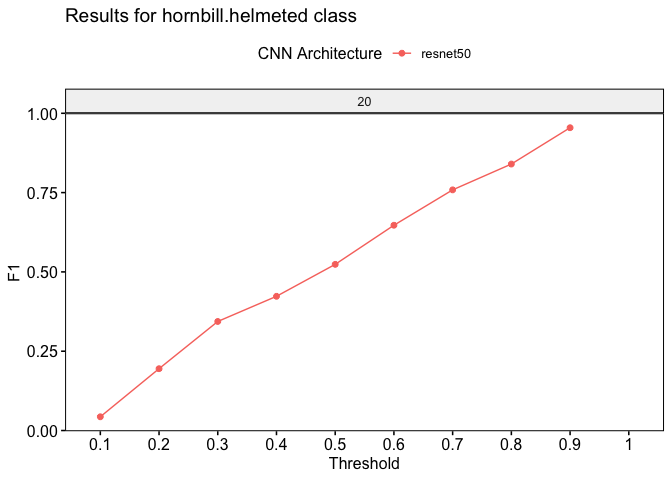
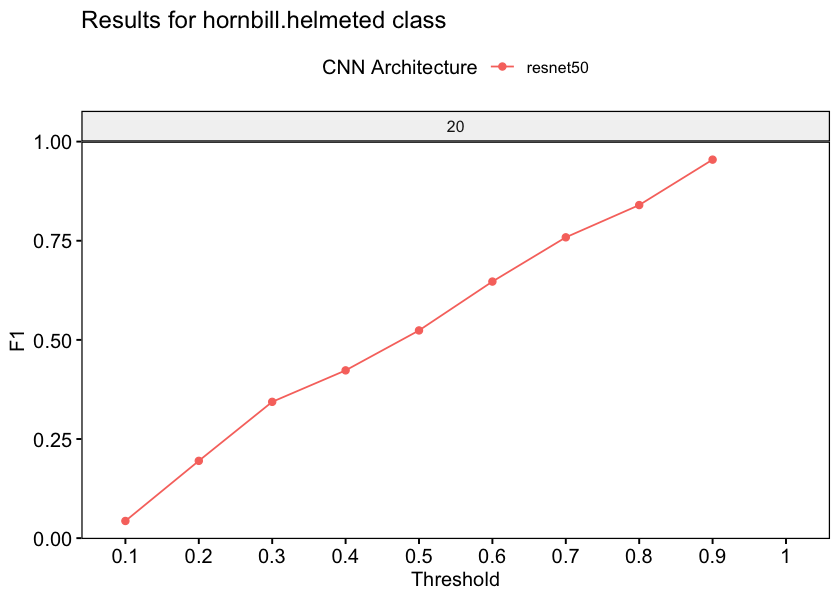
Update README format.

diff --git a/README.md b/README.md
@@ -91,7 +91,7 @@ gibbonNetR::spectrogram_images(
 
 <div class="figure">
 
-<img src="README_files/spectro.png" alt="Figure 1. Spectrograms of training clips for CNNs" width="1995" />
+<img src="README_files/spectro.png" alt="Figure 1. Spectrograms of training clips for CNNs" width="400px" />
 <p class="caption">
 Figure 1. Spectrograms of training clips for CNNs
 </p>
@@ -149,17 +149,17 @@ PerformanceOutput <- gibbonNetR::get_best_performance(performancetables.dir=perf
 PerformanceOutput$f1_plot
 ```
 
-![](README_files/figure-gfm/unnamed-chunk-8-1.png)<!-- -->
+<img src="README_files/figure-gfm/unnamed-chunk-8-1.png" width="400px" />
 
 ``` r
 PerformanceOutput$best_f1$F1
+#> [1] 0.7062107
 ```
-
-    ## [1] 0.7062107
 
 ## Specify for the ‘hornbill.helmeted’ class
 
 ``` r
+
 # Evaluate model performance
 performancetables.dir <- "model_output/_danummulticlassexample_multi_unfrozen_TRUE_/performance_tables_multi"
 
@@ -174,19 +174,19 @@ PerformanceOutput <- gibbonNetR::get_best_performance(performancetables.dir=perf
 PerformanceOutput$f1_plot
 ```
 
-![](README_files/figure-gfm/unnamed-chunk-10-1.png)<!-- -->
+<img src="README_files/figure-gfm/unnamed-chunk-10-1.png" width="400px" />
 
 ``` r
 PerformanceOutput$best_f1$F1
+#> [1] 0.9545455
 ```
-
-    ## [1] 0.9545455
 
 # Use the pre-trained model to extract embeddings and use unsupervised clustering to identify signals
 
 ## Extract embeddings
 
 ``` r
+
 ModelPath <- "model_output/_danummulticlassexample_multi_unfrozen_TRUE_/_danummulticlassexample_20_resnet50_model.pt"
 result <- extract_embeddings(test_input="data/examples/test/",
                                       model_path=ModelPath,
@@ -199,25 +199,20 @@ result <- extract_embeddings(test_input="data/examples/test/",
 result$EmbeddingsCombined
 ```
 
-![](README_files/figure-gfm/unnamed-chunk-12-1.png)<!-- -->
+<img src="README_files/figure-gfm/unnamed-chunk-12-1.png" width="400px" />
 
 ### We can output the NMI results, and the confusion matrix results when we use ‘hdbscan’ to match the target class to the cluster with the largest number of observations
 
 ``` r
 result$NMI
-```
-
-    ## [1] 0.7351531
-
-``` r
+#> [1] 0.7505927
 result$ConfusionMatrix
+#>          Sensitivity          Specificity       Pos Pred Value 
+#>            0.9112426            0.9875721            0.9428571 
+#>       Neg Pred Value            Precision               Recall 
+#>            0.9801762            0.9428571            0.9112426 
+#>                   F1           Prevalence       Detection Rate 
+#>            0.9267803            0.1836957            0.1673913 
+#> Detection Prevalence    Balanced Accuracy 
+#>            0.1775362            0.9494074
 ```
-
-    ##          Sensitivity          Specificity       Pos Pred Value 
-    ##            0.9092702            0.9849090            0.9313131 
-    ##       Neg Pred Value            Precision               Recall 
-    ##            0.9796909            0.9313131            0.9092702 
-    ##                   F1           Prevalence       Detection Rate 
-    ##            0.9201597            0.1836957            0.1670290 
-    ## Detection Prevalence    Balanced Accuracy 
-    ##            0.1793478            0.9470896
